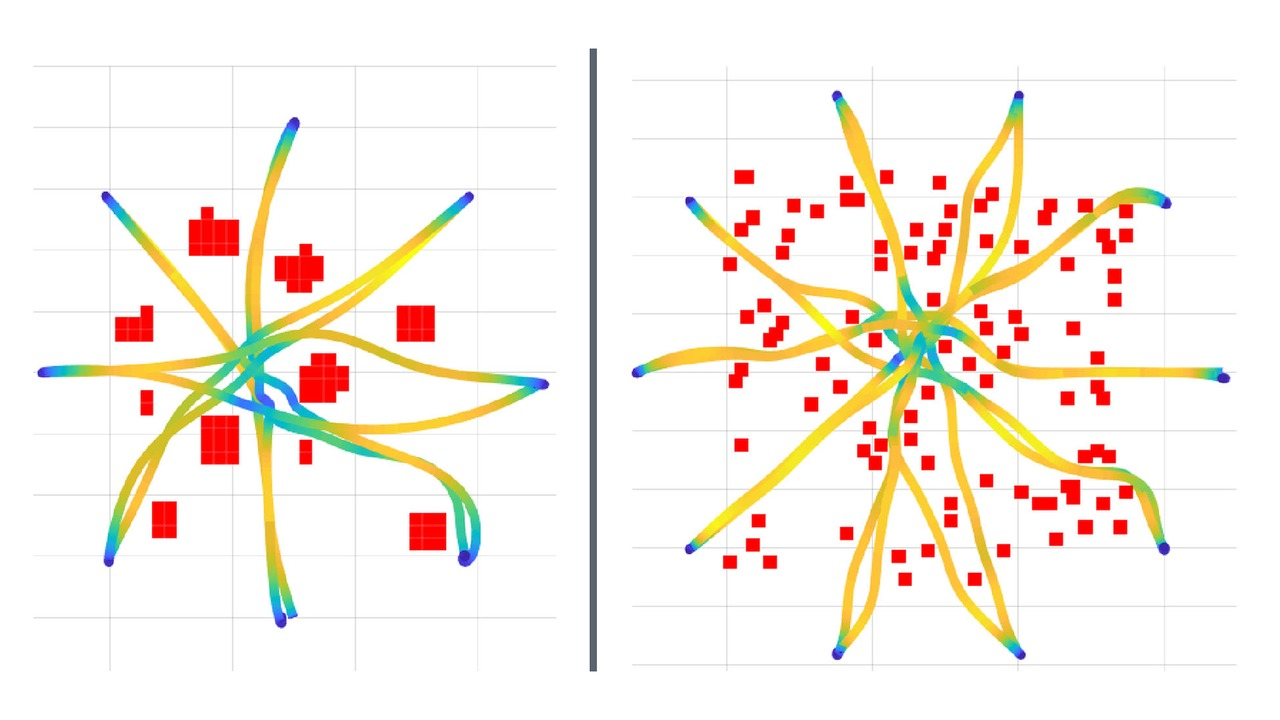
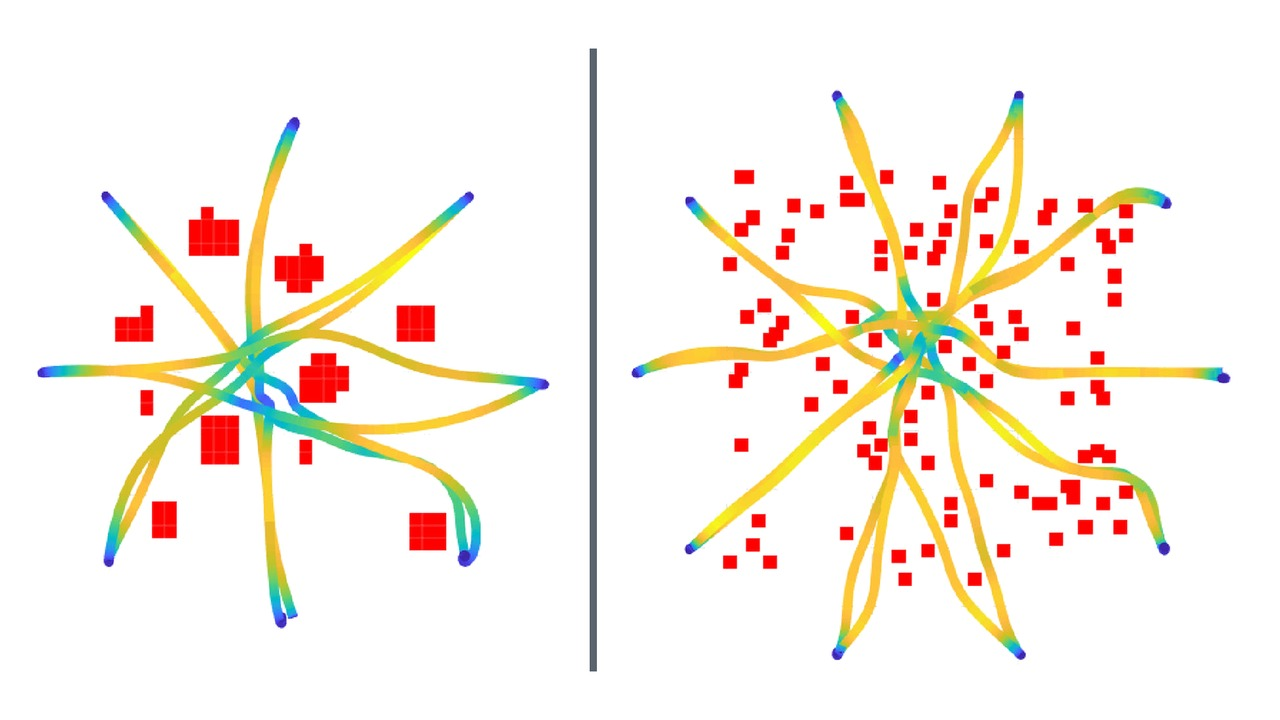
RA-L 2022 picture: grid lines removed

diff --git a/README.md b/README.md
@@ -43,7 +43,7 @@ Save the files under the names already written in `index.html` and they appear; 
 
 Until a paper's picture exists, its frame shows the venue (for example "ICRA 2026") on a light grid; on phones, such frames are left out. Without a clip, the picture simply stays still.
 
-In place now: `swarmnxt-flights` (aerial swarms: the six-drone panel of the overview GIF in `swarm-nxt`, which is a collage, then its obstacle panel, back to back), `ral26-xfly` (flapping-wing flight: one lap of Track 1 from the flight video https://youtu.be/pVb3DoUntWI, linked from `lis-epfl/xfly_stack`), `swarmnxt-pillars` (SwarmNxt paper: the obstacle panel alone), `ral26-gate` (XFly paper, photo), `ral22-time-aware` (RA-L 2022: the trajectories of Fig. 5b and 5c of the paper, 8 agents in the small environment and 10 in the big one, cropped inside the axes and separated by a slate line), `jirs22-corridors` (JIRS 2022: the two views of Fig. 4d of the paper, whole, side by side) and `tro24-forest-wall` (T-RO 2024: the forest / wall / forest GIF, `imgs/linear.gif` in `multi_agent_pkgs`). `swarmnxt-six-drones` is the six-drone panel alone, the first half of `swarmnxt-flights`. Not used at the moment: `swarmnxt-obstacles` (photo of the SwarmNxt drones between pillars), `tro24-circular` (circular exchange, `imgs/circular.gif`) and `tro24-crazyflie` (Crazyflie flights); to show one, put its name in a `<video>`.
+In place now: `swarmnxt-flights` (aerial swarms: the six-drone panel of the overview GIF in `swarm-nxt`, which is a collage, then its obstacle panel, back to back), `ral26-xfly` (flapping-wing flight: one lap of Track 1 from the flight video https://youtu.be/pVb3DoUntWI, linked from `lis-epfl/xfly_stack`), `swarmnxt-pillars` (SwarmNxt paper: the obstacle panel alone), `ral26-gate` (XFly paper, photo), `ral22-time-aware` (RA-L 2022: the trajectories of Fig. 5b and 5c of the paper, 8 agents in the small environment and 10 in the big one, cropped inside the axes, grid lines removed, at 90% with white around them and separated by a slate line), `jirs22-corridors` (JIRS 2022: the two views of Fig. 4d of the paper, whole, side by side) and `tro24-forest-wall` (T-RO 2024: the forest / wall / forest GIF, `imgs/linear.gif` in `multi_agent_pkgs`). `swarmnxt-six-drones` is the six-drone panel alone, the first half of `swarmnxt-flights`. Not used at the moment: `swarmnxt-obstacles` (photo of the SwarmNxt drones between pillars), `tro24-circular` (circular exchange, `imgs/circular.gif`) and `tro24-crazyflie` (Crazyflie flights); to show one, put its name in a `<video>`.
 
 ## Making clips: MP4, not GIF
 
